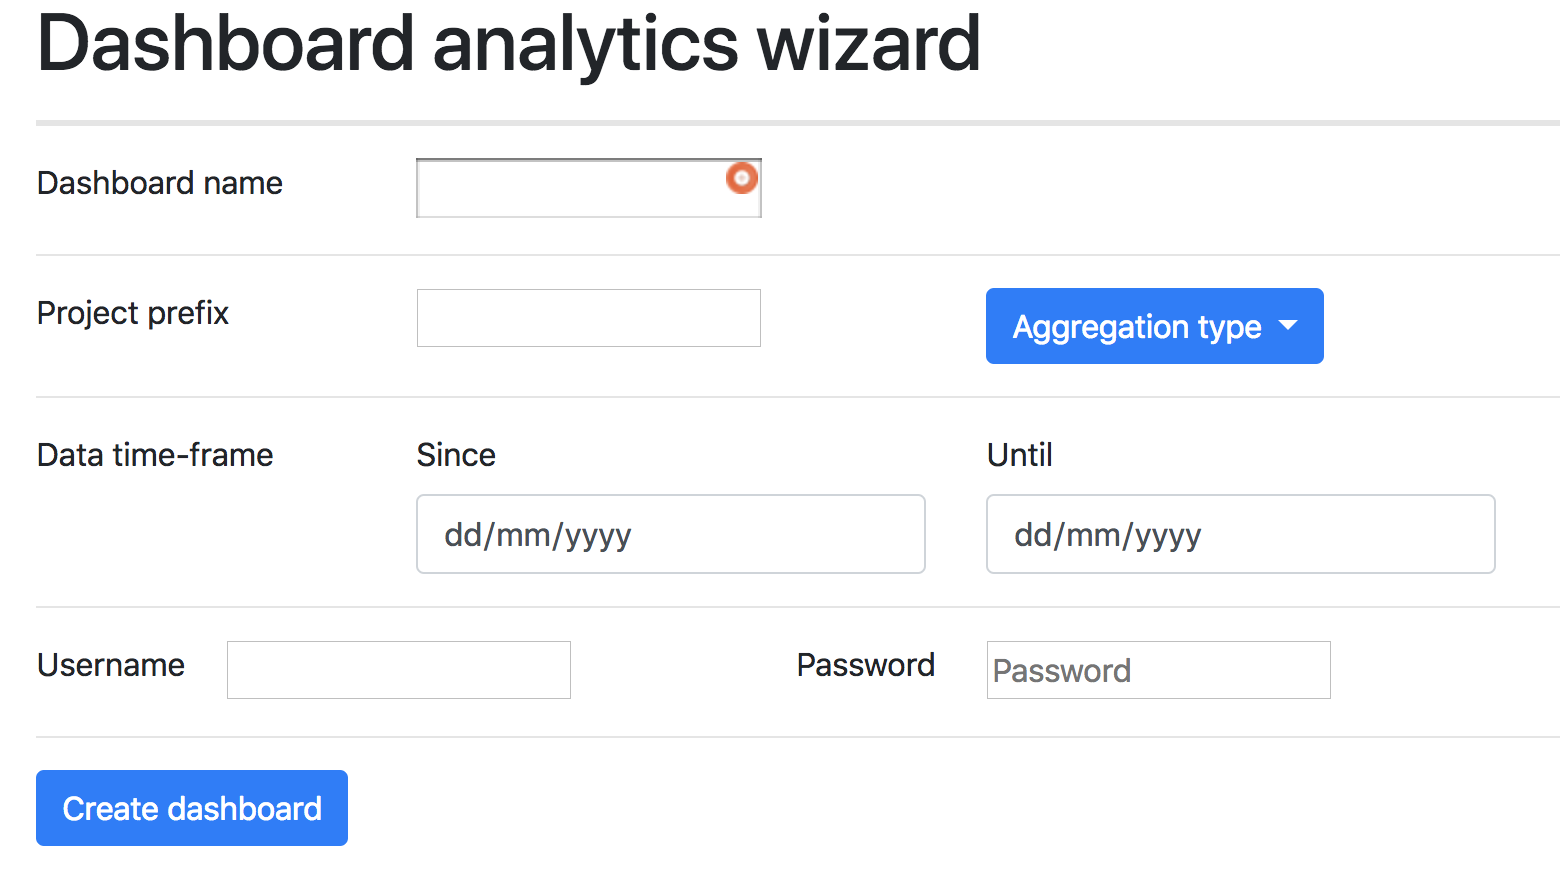
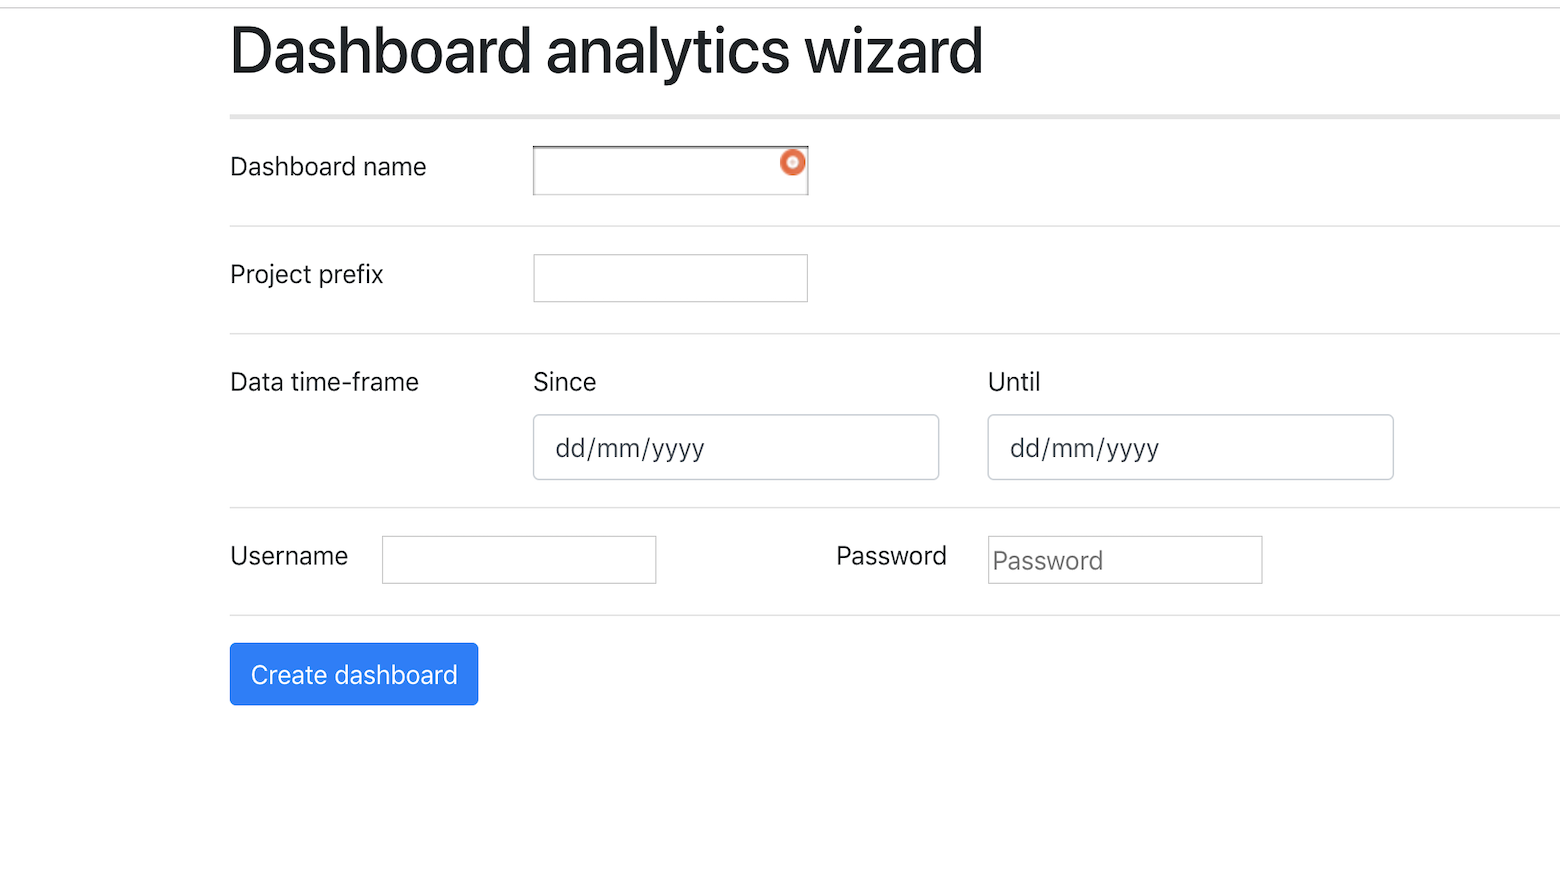
Always aggregate analytics data by hour
Do not allow dashboard users to choose which type of aggregation to
perform when running wizard: coarse-grained aggregation, such as month
or year is not useful to be plotted on a time-based graph and it has
been cause of confusion for users.

Feature: Issue 10070

diff --git a/src/main/resources/static/analytics-dashboard.html b/src/main/resources/static/analytics-dashboard.html
@@ -35,20 +35,6 @@
         <div class="col-lg-3">
             <input data-toggle="tooltip" title="Prefix of the projects to import, not a regular expression. I.e.: the 'gerrit/' prefix will import all the projects starting with 'gerrit/'" id="input-project-prefix" type="text">
         </div>
-        <div class="col-lg-4">
-            <div class="dropdown">
-                <button class="btn btn-primary dropdown-toggle" type="button" id="aggregate" data-toggle="dropdown" aria-haspopup="true" aria-expanded="true">
-                    Aggregation type
-                </button>
-                <ul class="dropdown-menu" aria-labelledby="aggregate">
-                    <li><a href="#" data-value="email_hour">Author per hour</a></li>
-                    <li><a href="#" data-value="email_day">Author per day</a></li>
-                    <li><a href="#" data-value="email_month">Author per month</a></li>
-                    <li><a href="#" data-value="email_year">Author per year</a></li>
-                    <li><a href="#" data-value="email">Author Only</a></li><span class="caret"></span>
-                </ul>
-            </div>
-        </div>
 
     </div>
     <hr>

diff --git a/src/main/resources/static/js/analyticswizard.js b/src/main/resources/static/js/analyticswizard.js
@@ -92,7 +92,7 @@ function kibanaTimeframeParams() {
 
 function getRequestBody() {
   var etlConfigRaw = {
-    aggregate: $("#aggregate").val(),
+    aggregate: "email_hour",
     since: $("#since").val(),
     until: $("#until").val(),
     project_prefix: $("#input-project-prefix").val(),

diff --git a/README.md b/README.md
@@ -39,7 +39,6 @@ You will land on this screen:
 Different parameters can be configured:
 * **Dashboard name** (required): name of the dashboard you are about to create
 * **Projects prefix** (optional): prefix of the projects you want to import, i.e.: to import all the projects under the Gerrit namespace, you can specify `gerrit/`. *Note: It is not a regular expression.*
-* **Aggregation type** (required): the data can be aggregated by `email only`, by `email per hour`, by `email per day`, by `email per month` or by `email per year`.
 * **Date time-frame** (optional): time window you want to collect data about
 * **Username/Password** (optional): credentials for Gerrit API, if basic auth is needed
 
